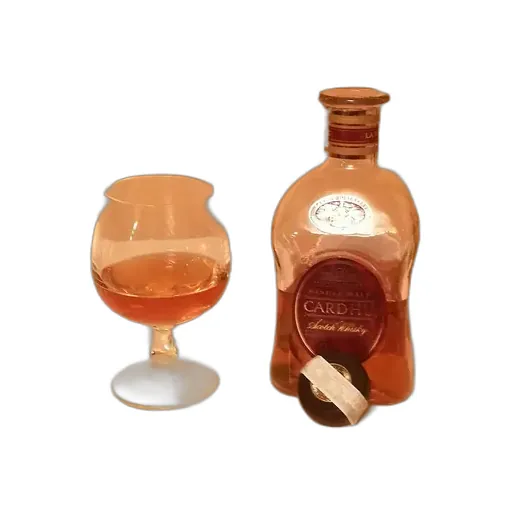
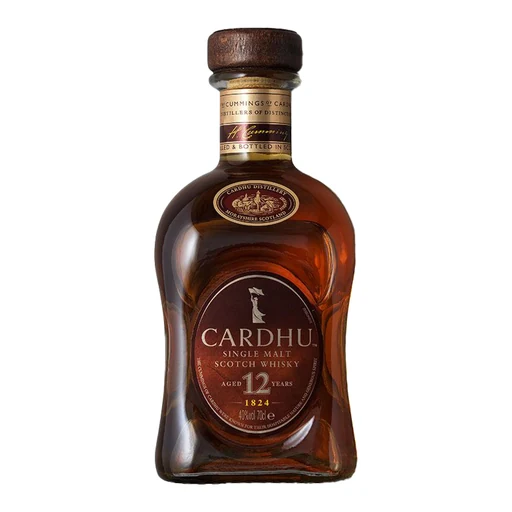
04-WHISKEYS: stock singles x10 (BlackBarrel/Chivas/JWBlack/EvanW/FourRoses/Cardhu/Arran/Laga8/HP12/Dalmore)

diff --git a/scripts/fetch-menu-images.py b/scripts/fetch-menu-images.py
@@ -111,9 +111,28 @@ def _fp(name: str) -> str:
 
 
 _OVERRIDES_RAW: dict[str, tuple[str, str]] = {
+    # GROUP W1 (04-WHISKEYS): single-bottle white STOCK. JBB/Chivas via LCBO
+    # white singles (official jamesonwhiskey.com/chivas.com are Cloudflare
+    # age-gated; TWE irish_jam19 is bottle+box, no verified TWE single).
+    "whiskeys::Jameson Black Barrel": (
+        "https://aem.lcbo.com/content/dam/lcbo/products/2/9/2/6/292615.jpg.thumb.1280.1280.jpg",
+        "https://www.lcbo.com/en/jameson-black-barrel-292615",
+    ),
+    "whiskeys::Chivas": (
+        "https://aem.lcbo.com/content/dam/lcbo/products/0/0/7/6/007617.jpg.thumb.1280.1280.jpg",
+        "https://www.lcbo.com/en/chivas-regal-12-year-old-scotch-whisky-7617",
+    ),
+    "whiskeys::Johnnie Black": (
+        "https://images.ctfassets.net/waruwpig3jxu/40mAmIwhfqUmm72FQCCyob/3724a811cf2735f06e46bd508884c6d7/black-750ml_producthero_halffront_desktop.webp",
+        "https://www.johnniewalker.com/en-us/our-whisky/johnnie-walker-black-label",
+    ),
     "whiskeys::Evan Williams": (
-        _fp("Evan Williams white label and black label whiskey bottles.jpg"),
-        "https://commons.wikimedia.org/wiki/File:Evan_Williams_white_label_and_black_label_whiskey_bottles.jpg",
+        "https://evanwilliams.com/images/bottles/ew-black-20.png?ver=2",
+        "https://evanwilliams.com/ew-blacklabel.php",
+    ),
+    "whiskeys::Four Roses": (
+        "https://four-roses.files.svdcdn.com/production/images/bourbons/Web_Small-batch_2023-06-14-135007_iiyg.png?dm=1757960464",
+        "https://www.fourrosesbourbon.com/bourbon/small-batch",
     ),
     "cognac::Metaxa 7*": (
         _fp("Metaxa 7 star amphora.jpg"),
@@ -252,6 +271,30 @@ _OVERRIDES_RAW: dict[str, tuple[str, str]] = {
     "whiskeys::Grants 12yr": (
         "https://upload.wikimedia.org/wikipedia/commons/f/f5/Grant%27s_Whisky_01.jpg",
         "https://commons.wikimedia.org/wiki/File:Grant%27s_Whisky_01.jpg",
+    ),
+    # GROUP W2 (04-WHISKEYS): SINGLE bottle white STOCK. Cardhu = official
+    # Diageo malts.com transparent single; Arran/HP/Dalmore = TWE 540px
+    # SINGLEs (never pair/box); Lagavulin 8 = Keg N Bottle Shopify single
+    # (official malts.com + TWE + LCBO are all bottle+box pairs).
+    "whiskeys::Cardhu": (
+        "https://images.ctfassets.net/glsfy1cpffmh/Szut43yTqebWjxZmrlGmJ/ae0490051d6da4c23281eb12af61ac49/cardhu-12-year-old-single-malt-scotch-whisky-70cl-transparent.png",
+        "https://www.malts.com/en/products/cardhu-12-year-old-single-malt-scotch-whisky-70cl",
+    ),
+    "whiskeys::Arran 10yr": (
+        "https://img.thewhiskyexchange.com/540/arrob.10yov2.jpg",
+        "https://www.thewhiskyexchange.com/p/232/arran-10-year-old",
+    ),
+    "whiskeys::Lagavulin 8yr": (
+        "https://kegnbottle.com/cdn/shop/files/lagavulin-8-year-single-malt-scotch-whisky-750-ml-keg-n-bottle-450930.png?v=1741199730",
+        "https://kegnbottle.com/products/lagavulin-8-year-single-malt-scotch-whisky-750-ml",
+    ),
+    "whiskeys::Highland Park 12yr": (
+        "https://img.thewhiskyexchange.com/540/hlpob.12yov1.jpg",
+        "https://www.thewhiskyexchange.com/b/40/highland-park-single-malt-scotch-whisky",
+    ),
+    "whiskeys::Dalmore 12yr": (
+        "https://img.thewhiskyexchange.com/540/dlmob.12yov1.jpg",
+        "https://www.thewhiskyexchange.com/p/7217/dalmore-12-year-old",
     ),
     "whiskeys::Nikka From The Barrel": (
         "https://upload.wikimedia.org/wikipedia/commons/2/25/Nikka_Whisky_From_the_Barrel%2C_Japan.jpg",

diff --git a/public/menu/ATTRIBUTION.md b/public/menu/ATTRIBUTION.md
@@ -87,7 +87,7 @@ Product photos: Open Food Facts (CC BY-SA), Wikimedia Commons
 | `whiskeys-045.webp` | https://world.openfoodfacts.org/product/5011026108019 |
 | `whiskeys-046.webp` | https://world.openfoodfacts.org/product/5011026108019 |
 | `whiskeys-047.webp` | https://www.thewhiskyexchange.com/search?q=jameson |
-| `whiskeys-048.webp` | https://www.thewhiskyexchange.com/search?q=jameson%20black%20barrel |
+| `whiskeys-048.webp` | https://www.lcbo.com/en/jameson-black-barrel-292615 |
 | `whiskeys-049.webp` | https://www.thewhiskyexchange.com/search?q=jameson%20caskmates |
 | `whiskeys-050.webp` | https://world.openfoodfacts.org/product/5055966800022 |
 | `whiskeys-051.webp` | https://www.thewhiskyexchange.com/search?q=bushmills%20black%20bush |
@@ -97,23 +97,26 @@ Product photos: Open Food Facts (CC BY-SA), Wikimedia Commons
 | `whiskeys-055.webp` | https://commons.wikimedia.org/wiki/File:Redbreast12.jpg |
 | `whiskeys-056.webp` | https://world.openfoodfacts.org/product/5010106111956 |
 | `whiskeys-057.webp` | https://world.openfoodfacts.org/product/5010504100057 (background removed) |
-| `whiskeys-058.webp` | https://world.openfoodfacts.org/product/0080432402931 |
-| `whiskeys-059.webp` | https://www.thewhiskyexchange.com/search?q=johnnie%20walker%20black%20label |
+| `whiskeys-058.webp` | https://www.lcbo.com/en/chivas-regal-12-year-old-scotch-whisky-7617 |
+| `whiskeys-059.webp` | https://www.johnniewalker.com/en-us/our-whisky/johnnie-walker-black-label |
 | `whiskeys-060.webp` | https://world.openfoodfacts.org/product/9300624031406 (background removed) |
 | `whiskeys-061.webp` | https://commons.wikimedia.org/wiki/File%3ABottle_Haig_Whiskey.jpg (background removed) |
 | `whiskeys-062.webp` | https://commons.wikimedia.org/wiki/File:Grant%27s_12_year_old_whisky.jpg |
-| `whiskeys-063.webp` | https://commons.wikimedia.org/wiki/File:Evan_Williams_white_label_and_black_label_whiskey_bottles.jpg (background removed) |
+| `whiskeys-063.webp` | https://evanwilliams.com/ew-blacklabel.php |
 | `whiskeys-064.webp` | https://world.openfoodfacts.org/product/5099873089798 |
-| `whiskeys-065.webp` | https://fourrosesbourbon.com/ |
-| `whiskeys-066.webp` | https://commons.wikimedia.org/wiki/File%3AWhisky_Cardhu.jpg (background removed) |
+| `whiskeys-065.webp` | https://www.fourrosesbourbon.com/bourbon/small-batch |
+| `whiskeys-066.webp` | https://www.malts.com/en/products/cardhu-12-year-old-single-malt-scotch-whisky-70cl |
 | `whiskeys-067.webp` | https://commons.wikimedia.org/wiki/File%3ATalisker_Isle_of_Skye_Single_Malt_Whisky_aged_18_years.jpg (background removed) |
 | `whiskeys-068.webp` | https://world.openfoodfacts.org/product/5010327000176 |
 | `whiskeys-069.webp` | https://world.openfoodfacts.org/product/5000281005423 (background removed) |
 | `whiskeys-070.webp` | https://www.thewhiskyexchange.com/search?q=nikka%20from%20the%20barrel |
+| `whiskeys-071.webp` | https://www.thewhiskyexchange.com/p/232/arran-10-year-old |
 | `whiskeys-072.webp` | https://world.openfoodfacts.org/product/4005971387033 |
+| `whiskeys-073.webp` | https://kegnbottle.com/products/lagavulin-8-year-single-malt-scotch-whisky-750-ml |
 | `whiskeys-074.webp` | https://commons.wikimedia.org/wiki/File%3ALagavulin_Single_Islay_Malt_Whisky_16_years_old.jpg |
-| `whiskeys-076.webp` | https://commons.wikimedia.org/wiki/File%3AHighland_Park_Single_Malt_Whisky_12_years_old.jpg |
+| `whiskeys-076.webp` | https://www.thewhiskyexchange.com/b/40/highland-park-single-malt-scotch-whisky |
 | `whiskeys-077.webp` | https://www.thewhiskyexchange.com/search?q=glenallachie%2012 |
+| `whiskeys-079.webp` | https://www.thewhiskyexchange.com/p/7217/dalmore-12-year-old |
 | `whiskeys-080.webp` | https://world.openfoodfacts.org/product/5010494195286 |
 | `whiskeys-081.webp` | https://world.openfoodfacts.org/product/5010327000176 |
 | `whiskeys-082.webp` | https://world.openfoodfacts.org/product/5010314302863 |
